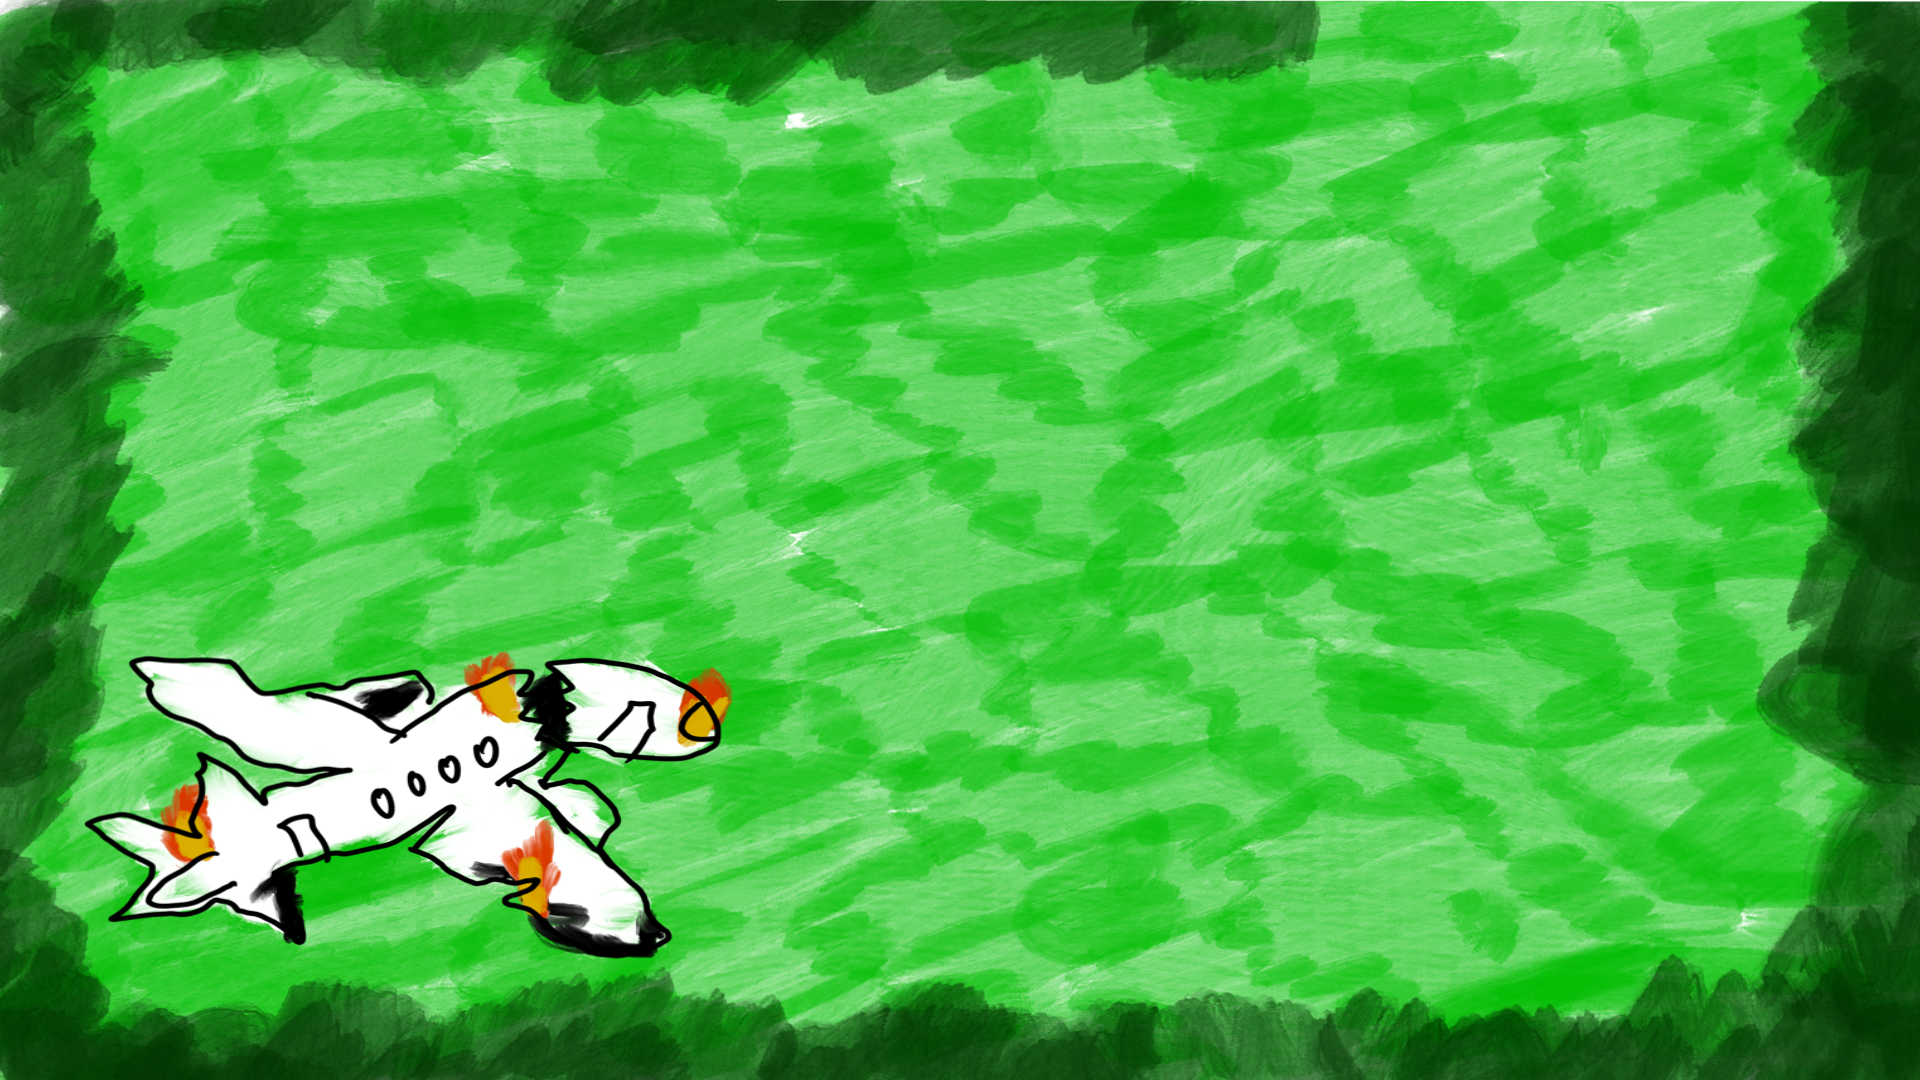
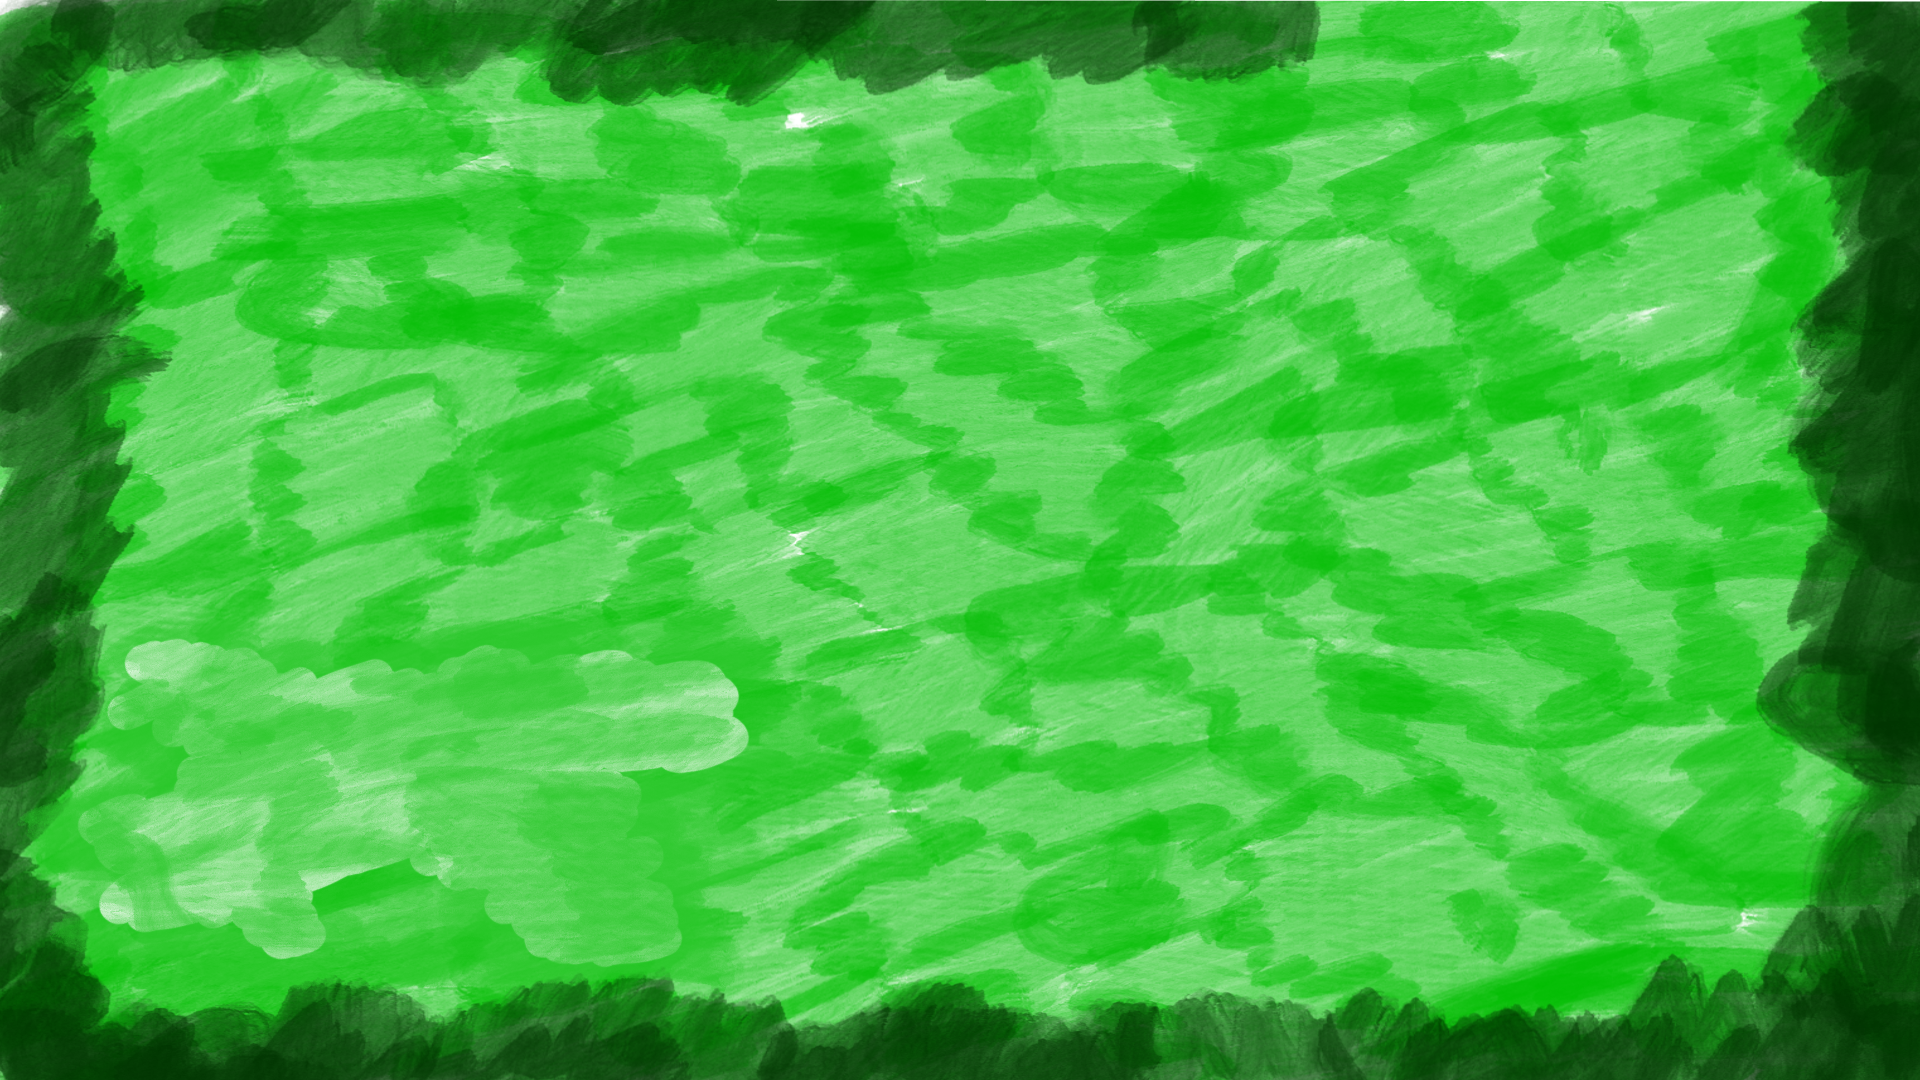
added collision

Changed region(s): [[0.0, 0.5806, 0.4375, 0.9167]]

diff --git a/main.py b/main.py
@@ -18,6 +18,11 @@ original_background_lvl_1 = pg.image.load('Images/Background/bg_lvl_1.png')
 background_lvl_1 = pg.transform.scale(original_background_lvl_1, (800, 600))
 
 from player_movement import player
+from background_objects import plane_b_object
+from collision_functions import collision_with_static_object
+
+plane_b_object_rect = plane_b_object.get_rect()
+plane_b_object_rect.topleft = (40, 400)
 
 
 run = True
@@ -27,6 +32,8 @@ while run:
     for event in pg.event.get():
         if event.type == pg.QUIT:
             run = False
+
+    
 
     player.main_player_movement()
     player.animate()
@@ -40,10 +47,34 @@ while run:
     if player.player_rect.bottom > BOUNDRY_BOTTOM:
        player.player_rect.bottom = BOUNDRY_BOTTOM
 
+
+    collision_with_static_object(player.player_rect, plane_b_object_rect, 10)
+    
+
+    # collision_tolerance = 10
+    # if player.player_rect.colliderect(plane_b_object_rect):
+    #     if abs(player.player_rect.right - plane_b_object_rect.left) < collision_tolerance:
+    #         player.player_rect.right = plane_b_object_rect.left
+    #     elif abs(player.player_rect.left - plane_b_object_rect.right) < collision_tolerance:
+    #         player.player_rect.left = plane_b_object_rect.right
+
+    #     if abs(player.player_rect.bottom - plane_b_object_rect.top) < collision_tolerance:
+    #         player.player_rect.bottom = plane_b_object_rect.top
+    #     elif abs(player.player_rect.top - plane_b_object_rect.bottom) < collision_tolerance:
+    #         player.player_rect.top = plane_b_object_rect.bottom
+
+            
+        
+
+    
+
+
     #black screen fill for default, all images are on top of it
     screen.fill((0, 0, 0))
     #adding background of level 1
     screen.blit(background_lvl_1, (0,0))
+
+    screen.blit(plane_b_object, plane_b_object_rect)
    
     
     player.draw(screen)
@@ -51,9 +82,5 @@ while run:
    
     
     pg.display.update()
-
-
-    #this part of code is responsible for boundries
-    # pg.display.update()
-
+    
 pg.quit()

diff --git a/collision_functions.py b/collision_functions.py
@@ -1,0 +1,13 @@
+
+
+def collision_with_static_object(obj1, obj2, coltol):
+    if obj1.colliderect(obj2):
+        if abs(obj1.right - obj2.left) < coltol:
+            obj1.right = obj2.left
+        elif abs(obj1.left - obj2.right) < coltol:
+            obj1.left = obj2.right
+
+        if abs(obj1.bottom - obj2.top) < coltol:
+            obj1.bottom = obj2.top
+        elif abs(obj1.top - obj2.bottom) < coltol:
+            obj1.top = obj2.bottom

diff --git a/background_objects.py b/background_objects.py
@@ -1,0 +1,12 @@
+import pygame as pg
+
+
+# background plane
+plane_b_object_unscaled = pg.image.load("Images/Background_objects/background_plane.png").convert_alpha()
+plane_b_object = pg.transform.scale(plane_b_object_unscaled, (300, 170))
+
+
+object_x = 0
+object_y = 0
+#
+
